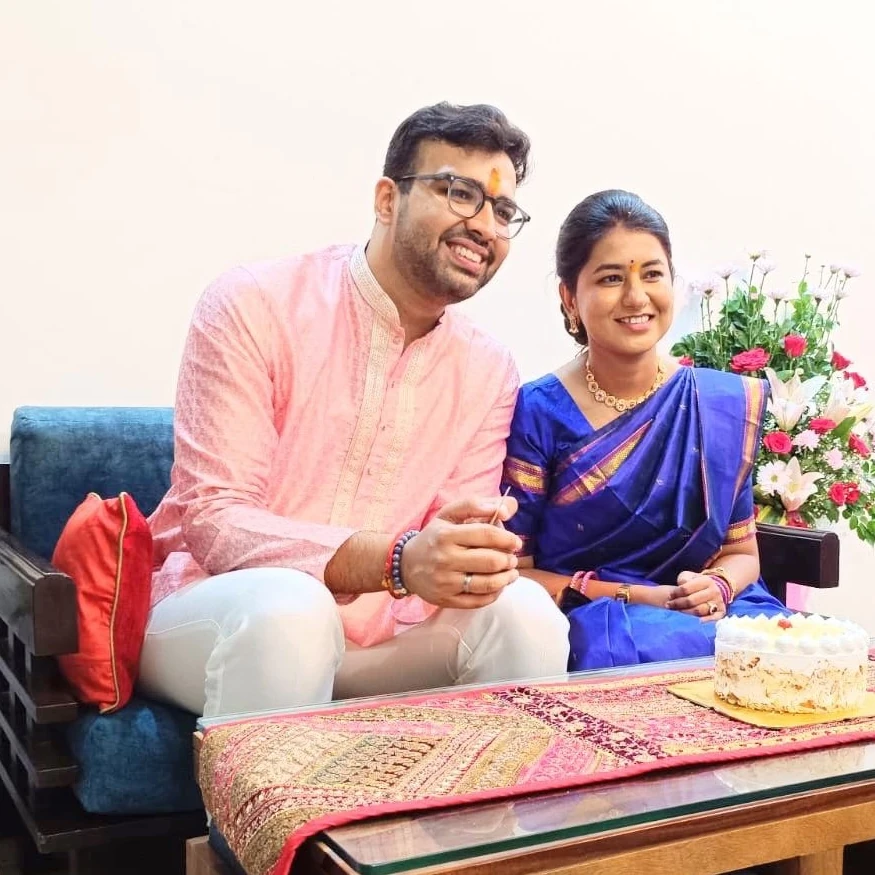
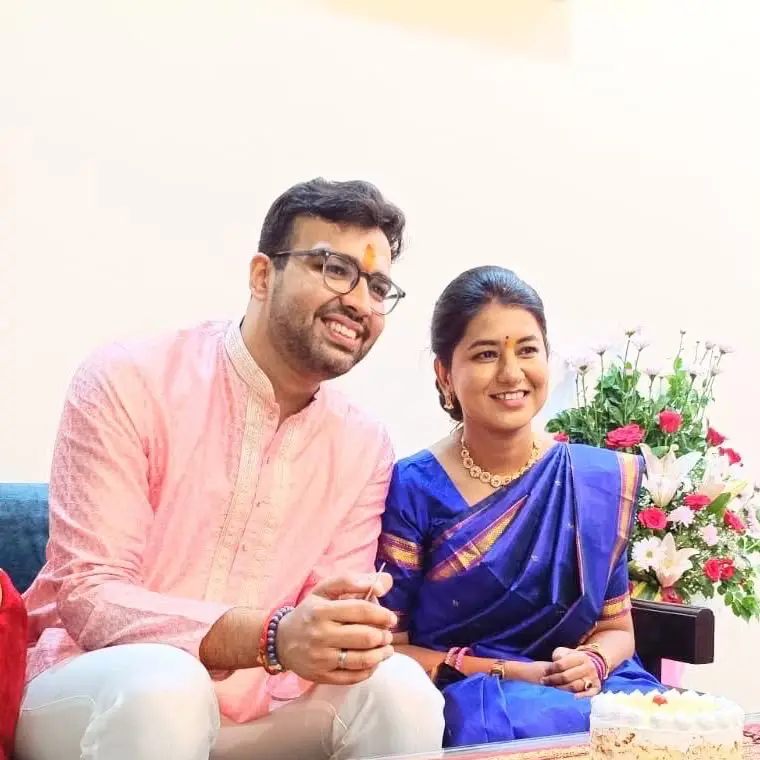
Update slideshow photos 2, 4 and 5
Bump the slideshow cache tag so returning visitors get the new photos.

diff --git a/index.html b/index.html
@@ -151,13 +151,13 @@
                alt="Our journey: Delhi and NCR, Bath in England, Hyderabad, Vermont and San Francisco in the USA, and now Kolkata">
 
           <div class="slideshow reveal" id="slideshow" role="region" aria-roledescription="carousel" aria-label="Photos of Senjuti and Arpit">
-            <img class="slideshow__slide is-current" src="assets/img/story/01.webp?v=7" alt="Senjuti and Arpit, photo 1 of 7" width="1080" height="1080" decoding="async" draggable="false">
-            <img class="slideshow__slide" data-src="assets/img/story/02.webp?v=7" alt="Senjuti and Arpit, photo 2 of 7" width="1080" height="1080" decoding="async" draggable="false">
-            <img class="slideshow__slide" data-src="assets/img/story/03.webp?v=7" alt="Senjuti and Arpit, photo 3 of 7" width="1080" height="1080" decoding="async" draggable="false">
-            <img class="slideshow__slide" data-src="assets/img/story/04.webp?v=7" alt="Senjuti and Arpit, photo 4 of 7" width="1080" height="1080" decoding="async" draggable="false">
-            <img class="slideshow__slide" data-src="assets/img/story/05.webp?v=7" alt="Senjuti and Arpit, photo 5 of 7" width="1080" height="1080" decoding="async" draggable="false">
-            <img class="slideshow__slide" data-src="assets/img/story/06.webp?v=7" alt="Senjuti and Arpit, photo 6 of 7" width="1080" height="1080" decoding="async" draggable="false">
-            <img class="slideshow__slide" data-src="assets/img/story/07.webp?v=7" alt="Senjuti and Arpit, photo 7 of 7" width="1080" height="1080" decoding="async" draggable="false">
+            <img class="slideshow__slide is-current" src="assets/img/story/01.webp?v=8" alt="Senjuti and Arpit, photo 1 of 7" width="1080" height="1080" decoding="async" draggable="false">
+            <img class="slideshow__slide" data-src="assets/img/story/02.webp?v=8" alt="Senjuti and Arpit, photo 2 of 7" width="1080" height="1080" decoding="async" draggable="false">
+            <img class="slideshow__slide" data-src="assets/img/story/03.webp?v=8" alt="Senjuti and Arpit, photo 3 of 7" width="1080" height="1080" decoding="async" draggable="false">
+            <img class="slideshow__slide" data-src="assets/img/story/04.webp?v=8" alt="Senjuti and Arpit, photo 4 of 7" width="1080" height="1080" decoding="async" draggable="false">
+            <img class="slideshow__slide" data-src="assets/img/story/05.webp?v=8" alt="Senjuti and Arpit, photo 5 of 7" width="1080" height="1080" decoding="async" draggable="false">
+            <img class="slideshow__slide" data-src="assets/img/story/06.webp?v=8" alt="Senjuti and Arpit, photo 6 of 7" width="1080" height="1080" decoding="async" draggable="false">
+            <img class="slideshow__slide" data-src="assets/img/story/07.webp?v=8" alt="Senjuti and Arpit, photo 7 of 7" width="1080" height="1080" decoding="async" draggable="false">
             <div class="slideshow__dots" id="slideDots"></div>
           </div>
         </div>
